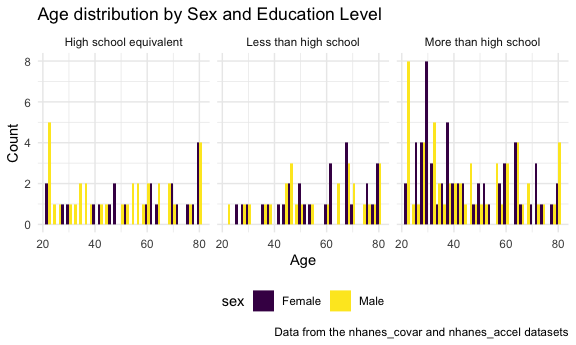
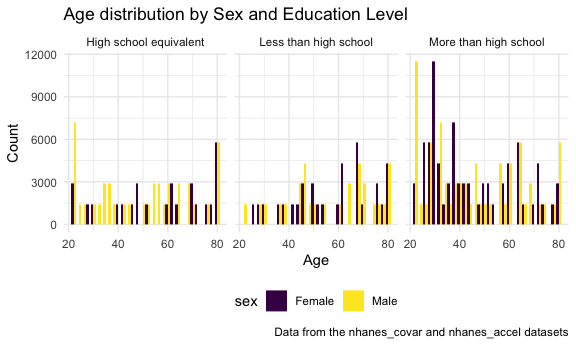
tidy data on problem 3, delete locations for NY state plot

diff --git a/p8105_hw3_xz3173.md b/p8105_hw3_xz3173.md
@@ -19,6 +19,9 @@ library(tidyverse)
     ## ℹ Use the conflicted package (<http://conflicted.r-lib.org/>) to force all conflicts to become errors
 
 ``` r
+library(ggridges)
+library(patchwork)
+
 knitr::opts_chunk$set(
   fig.width = 6,
   fig.asp = .6,
@@ -192,7 +195,7 @@ table_data = product_data |>
   group_by(product_name) |>
   pivot_wider(
     names_from = day_name,
-    values_from = mean_hour)
+    values_from = mean_hour) 
 
 table_data
 ```
@@ -244,7 +247,7 @@ states_with_7_or_more_locations_in_2002 = brfss_smart2010 |>
   filter(year == 2002) |>
   group_by(year, locationabbr) |>
   summarize(n_locations = n_distinct(locationdesc)) |>
-  filter(n_locations >= 7)
+  filter(n_locations >= 7) 
 ```
 
     ## `summarise()` has grouped output by 'year'. You can override using the
@@ -270,7 +273,7 @@ states_with_7_or_more_locations_in_2010 = brfss_smart2010 |>
   filter(year == 2010) |>
   group_by(year, locationabbr) |>
   summarize(n_locations = n_distinct(locationdesc)) |>
-  filter(n_locations >= 7)
+  filter(n_locations >= 7) 
 ```
 
     ## `summarise()` has grouped output by 'year'. You can override using the
@@ -310,7 +313,7 @@ print(states_with_7_or_more_locations_in_2010)
 excellent_df = brfss_smart2010 |>
   filter(response == "Excellent") |>
   group_by(year, locationabbr) |>
-  summarize(average_value = mean(data_value, na.rm = TRUE))
+  summarize(average_value = mean(data_value, na.rm = TRUE)) 
 ```
 
     ## `summarise()` has grouped output by 'year'. You can override using the
@@ -356,7 +359,7 @@ ggplot(excellent_df, aes(x = year, y = average_value, group = locationabbr, colo
 ny_df = brfss_smart2010 |>
   filter(locationabbr == "NY"  & (year == 2006 | year == 2010)) 
 
-ggplot(ny_df, aes(x = response, y = data_value, color = locationdesc)) +
+ggplot(ny_df, aes(x = response, y = data_value)) +
   geom_boxplot() +
   facet_grid(. ~ year) +
   labs(title = "Distribution of Data Value in NY for 2006 and 2010", 
@@ -396,8 +399,8 @@ nhanes_covar =
         3 ~ "More than high school")) |>
   
   # exclude participants less than 21 years of age, and those with missing demographic data; 
-  filter(age >= 21, 
-         !is.na(bmi))
+  filter(age >= 21) |>
+  drop_na()
 ```
 
     ## Rows: 250 Columns: 5
@@ -411,7 +414,13 @@ nhanes_covar =
 ``` r
 nhanes_accel =
   read_csv("data/nhanes_accel.csv") |>
-  janitor::clean_names()
+  janitor::clean_names() |>
+  pivot_longer(
+    cols = starts_with("min"),
+    names_to = "minute",
+    names_prefix = "min",
+    values_to = "activity") |>
+  mutate(minute = as.numeric(minute))
 ```
 
     ## Rows: 250 Columns: 1441
@@ -450,12 +459,12 @@ print(education_table)
     ## 
     ## |sex    |education              | count|
     ## |:------|:----------------------|-----:|
-    ## |Female |High school equivalent |    23|
-    ## |Female |Less than high school  |    28|
-    ## |Female |More than high school  |    59|
-    ## |Male   |High school equivalent |    35|
-    ## |Male   |Less than high school  |    27|
-    ## |Male   |More than high school  |    56|
+    ## |Female |High school equivalent | 33120|
+    ## |Female |Less than high school  | 40320|
+    ## |Female |More than high school  | 84960|
+    ## |Male   |High school equivalent | 50400|
+    ## |Male   |Less than high school  | 38880|
+    ## |Male   |More than high school  | 80640|
 
 Create a visualization of the age distributions for men and women in
 each education category.
@@ -472,12 +481,12 @@ ggplot(merged_df, aes(x = age, fill = sex)) +
 
 <img src="p8105_hw3_xz3173_files/figure-gfm/unnamed-chunk-19-1.png" width="90%" />
 
-Comments: There are more males than females have education of level of
+**Comments: There are more males than females have education of level of
 high school equivalent. Both males and females have more people with
 education level of more than high school. The age distribution among
 high school equivalent and less than high school is approximately same.
 The age distribution for more than high school is tends to lean on lower
-ages.
+ages.**
 
 Using your tidied dataset, aggregate across minutes to create a total
 activity variable for each participant. Plot these total activities
@@ -488,7 +497,7 @@ smooth to illustrate differences.
 ``` r
 activity_df = merged_df |>
   group_by(seqn, sex, age, education) |>
-  summarize(total_activity = sum(min1:min1440, na.rm = TRUE))
+  summarize(total_activity = sum(activity))
 ```
 
     ## `summarise()` has grouped output by 'seqn', 'sex', 'age'. You can override
@@ -509,8 +518,8 @@ ggplot(activity_df, aes(x = age, y = total_activity, color = sex)) +
 
 <img src="p8105_hw3_xz3173_files/figure-gfm/unnamed-chunk-20-1.png" width="90%" />
 
-Comments: From the plot, we can see the spread of the points mostly stay
-in the bottom of the plot, which means most of people have lower
+**Comments: From the plot, we can see the spread of the points mostly
+stay in the bottom of the plot, which means most of people have lower
 activity. From the slopes of the trend lines, we could see the negative
 slopes, which indicates the negative relationship between the two
 variables of age and total activities, when the age goes up, the total
@@ -520,23 +529,17 @@ higher activity. For the more than high school plot, female has a
 slightly higher trend line than male, which indicates female has a
 little higher total activity than male. There are also some anomalies
 points in the plots, which means there are a few people don’t follow the
-trend line and have higher activity.
+trend line and have higher activity.**
 
 Make a three-panel plot that shows the 24-hour activity time courses for
 each education level and use color to indicate sex.
 
 ``` r
-inspection_activity = merged_df |>
-  pivot_longer(
-    cols = starts_with("min"),
-    names_to = "Minute",
-    names_prefix = "min",
-    values_to = "Activity") |>
-  mutate(Minute = as.numeric(Minute))
+inspection_activity = merged_df 
 
-ggplot(inspection_activity, aes(x = Minute, y = Activity, color = sex)) +
+ggplot(inspection_activity, aes(x = minute, y = activity, color = sex)) +
   geom_line(aes(group = seqn), alpha = 0.2) +
-  geom_smooth(method = "gam", formula = y ~ s(x, bs = "cs"), se = FALSE) +
+  geom_smooth(se = FALSE) +
   facet_grid(. ~ education) +
   labs(title = "24-hour Activity Time Course by Education Level",
        x = "Time of Day",
@@ -545,16 +548,18 @@ ggplot(inspection_activity, aes(x = Minute, y = Activity, color = sex)) +
        caption = "Data from the nhanes_covar and nhanes_accel datasets") 
 ```
 
+    ## `geom_smooth()` using method = 'gam' and formula = 'y ~ s(x, bs = "cs")'
+
 <img src="p8105_hw3_xz3173_files/figure-gfm/unnamed-chunk-21-1.png" width="90%" />
 
 Describe in words any patterns or conclusions you can make based on this
 graph; including smooth trends may help identify differences.
 
-The faint lines are closely clustered, which indicates that many people
-have similar activity patterns. Except for the plot of more than high
-school, there are some lines are scattered, which indicates that some
-people have different activity patterns. The color represent sex, which
-indicates males and females mostly have similar trends of activity
+**The faint lines are closely clustered, which indicates that many
+people have similar activity patterns. Except for the plot of more than
+high school, there are some lines are scattered, which indicates that
+some people have different activity patterns. The color represent sex,
+which indicates males and females mostly have similar trends of activity
 around the day. Except for more than high school, females tend to might
 be more active during the middle of the day. The smoothed line gives an
 average trend across everyone. The peaks in those trend suggest that
@@ -562,4 +567,4 @@ most people have active times during 500 min to 1000 min in the 24-hour,
 while troughs suggest more sedentary periods. Since the x-axis
 represents time, activity during late night hours (time0-time250) are
 likely due to sleeping, peak could be associated with typical working
-hours, meal times, or exercise periods (time500-time1000+).
+hours, meal times, or exercise periods (time500-time1000+).**
